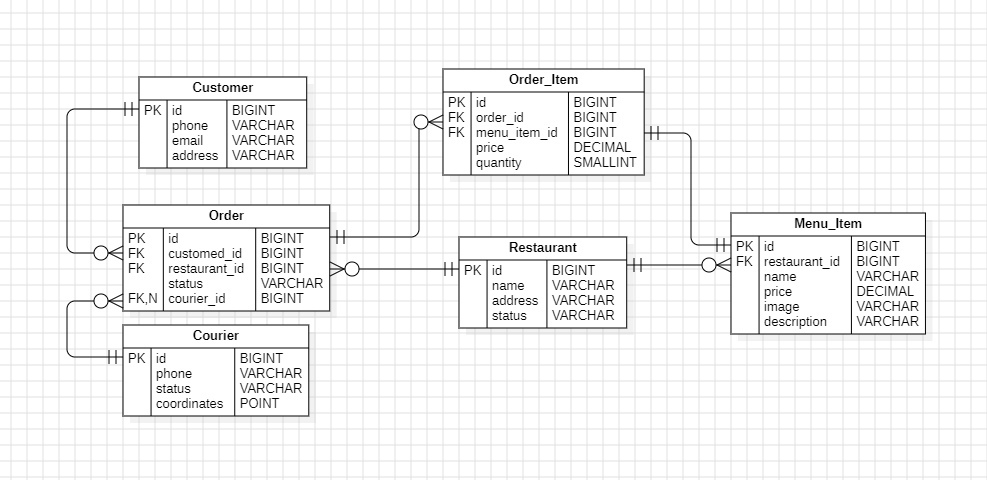
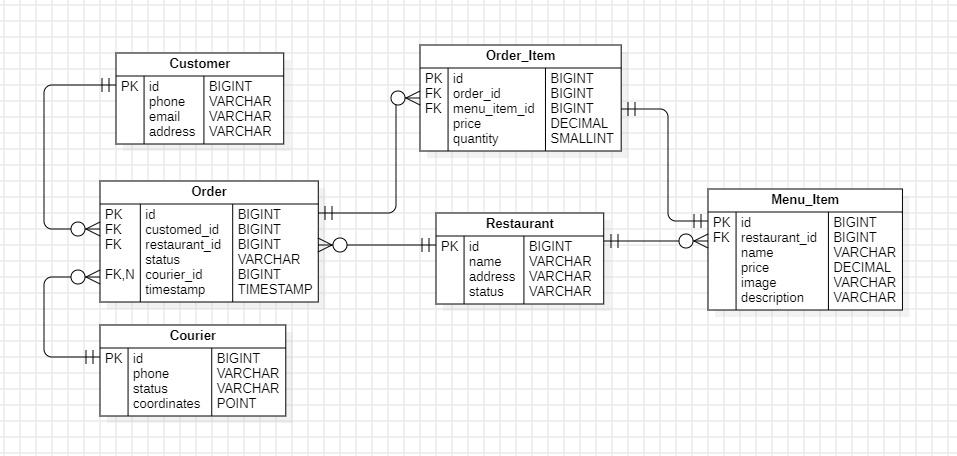
Приведение типов данных в соответствии с БД

Changed region(s): [[0.0303, 0.0921, 0.9394, 0.9211]]

diff --git a/order-service/src/main/java/ru/liga/OrderService/dto/OrderItemDTO.java b/order-service/src/main/java/ru/liga/OrderService/dto/OrderItemDTO.java
@@ -5,6 +5,8 @@ import io.swagger.v3.oas.annotations.media.Schema;
 import lombok.Data;
 import lombok.experimental.Accessors;
 
+import java.math.BigDecimal;
+
 @Schema(description = "Сущность позиции в заказе")
 @Data
 @Accessors(chain = true)
@@ -23,7 +25,7 @@ public class OrderItemDTO {
 
     //  При этом, я так понимаю, здесь цена выставляется уже с учетом например скидок и т.д.
     @Schema(description = "Цена в момент заказа")
-    private float price;
+    private BigDecimal price;
 
     @Schema(description = "Количество")
     private byte quantity;

diff --git a/order-service/src/main/java/ru/liga/OrderService/dto/MenuItemDTO.java b/order-service/src/main/java/ru/liga/OrderService/dto/MenuItemDTO.java
@@ -5,6 +5,7 @@ import io.swagger.v3.oas.annotations.media.Schema;
 import lombok.Data;
 import lombok.experimental.Accessors;
 
+import java.math.BigDecimal;
 import java.util.Base64;
 
 @Schema(description = "Сущность позиции в ресторане")
@@ -26,7 +27,7 @@ public class MenuItemDTO {
 
     @Schema(description = "Цена позиции")
     @JsonIgnore
-    private float price;
+    private BigDecimal price;
 
     @Schema(description = "Фотография позиции в Base64")
     private String image;

diff --git a/order-service/src/main/java/ru/liga/OrderService/controllers/OrderRestController.java b/order-service/src/main/java/ru/liga/OrderService/controllers/OrderRestController.java
@@ -46,7 +46,7 @@ public class OrderRestController {
     @Operation(summary = "Возврат заказа по его id")
     @GetMapping("/order/{id}")
     //  Не совсем уверен насколько верно использовать неопределенный ResponseEntity
-    public ResponseEntity getOrderById(@PathVariable("id") Long id) {
+    public ResponseEntity<?> getOrderById(@PathVariable("id") Long id) {
         GetOrderByIdResponse response;
 
         try {

diff --git a/order-service/src/main/java/ru/liga/OrderService/dto/CourierDTO.java b/order-service/src/main/java/ru/liga/OrderService/dto/CourierDTO.java
@@ -16,7 +16,7 @@ public class CourierDTO {
     private long id;
 
     @Schema(description = "Номер телефона")
-    private byte phone;
+    private String phone;
 
     @Schema(description = "Статус курьера", allowableValues = { "FREE", "BUSY", "REST" })
     private CourierStatus status;

diff --git a/order-service/src/main/java/ru/liga/OrderService/dto/CustomerDTO.java b/order-service/src/main/java/ru/liga/OrderService/dto/CustomerDTO.java
@@ -13,7 +13,7 @@ public class CustomerDTO {
     private long id;
 
     @Schema(description = "Номер телефона")
-    private byte phone;
+    private String phone;
 
     @Schema(description = "Электронная почта")
     private String email;
